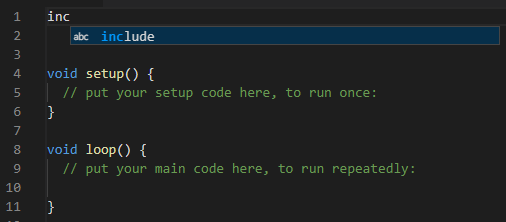
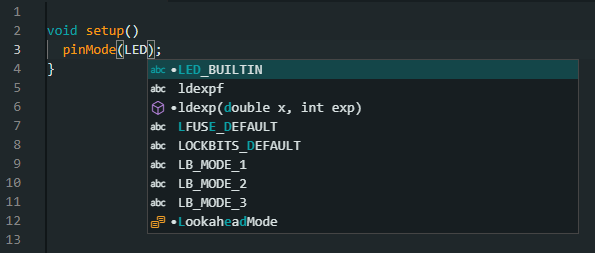
Added correct feature name

diff --git a/content/Software Support/IDE Settings/Enable-autocomplete-in-IDE-2.md b/content/Software Support/IDE Settings/Enable-autocomplete-in-IDE-2.md
@@ -3,7 +3,7 @@ title: "Enable autocomplete in IDE 2"
 id: 4406711538450
 ---
 
-Arduino IDE 2 introduces an autocomplete feature for writing your code. Follow these steps to enable the feature.
+Arduino IDE 2 introduces an *Editor Quick Suggestions* feature for writing your code. Follow these steps to enable the feature.
 
 1. Open the IDE.
 
@@ -15,12 +15,12 @@ Arduino IDE 2 introduces an autocomplete feature for writing your code. Follow t
 
    [^1]: If you're using Arduino IDE 2.1 or older, this option may be called **Arduino IDE > Settings**. ([#2022](https://github.com/arduino/arduino-ide/issues/2022))
 
-3. Check the _Editor Quick Suggestions_.
+3. Check the box next to *Editor Quick Suggestions*.
 
    ![Preferences Window](img/Preferences_Window.png)
 
 4. Click OK to save.
 
-Autocomplete is now enabled:
+the Editor Quick Suggestions is now enabled:
 
 ![Testing Autocomplete](img/AutoComplete-example.png)
